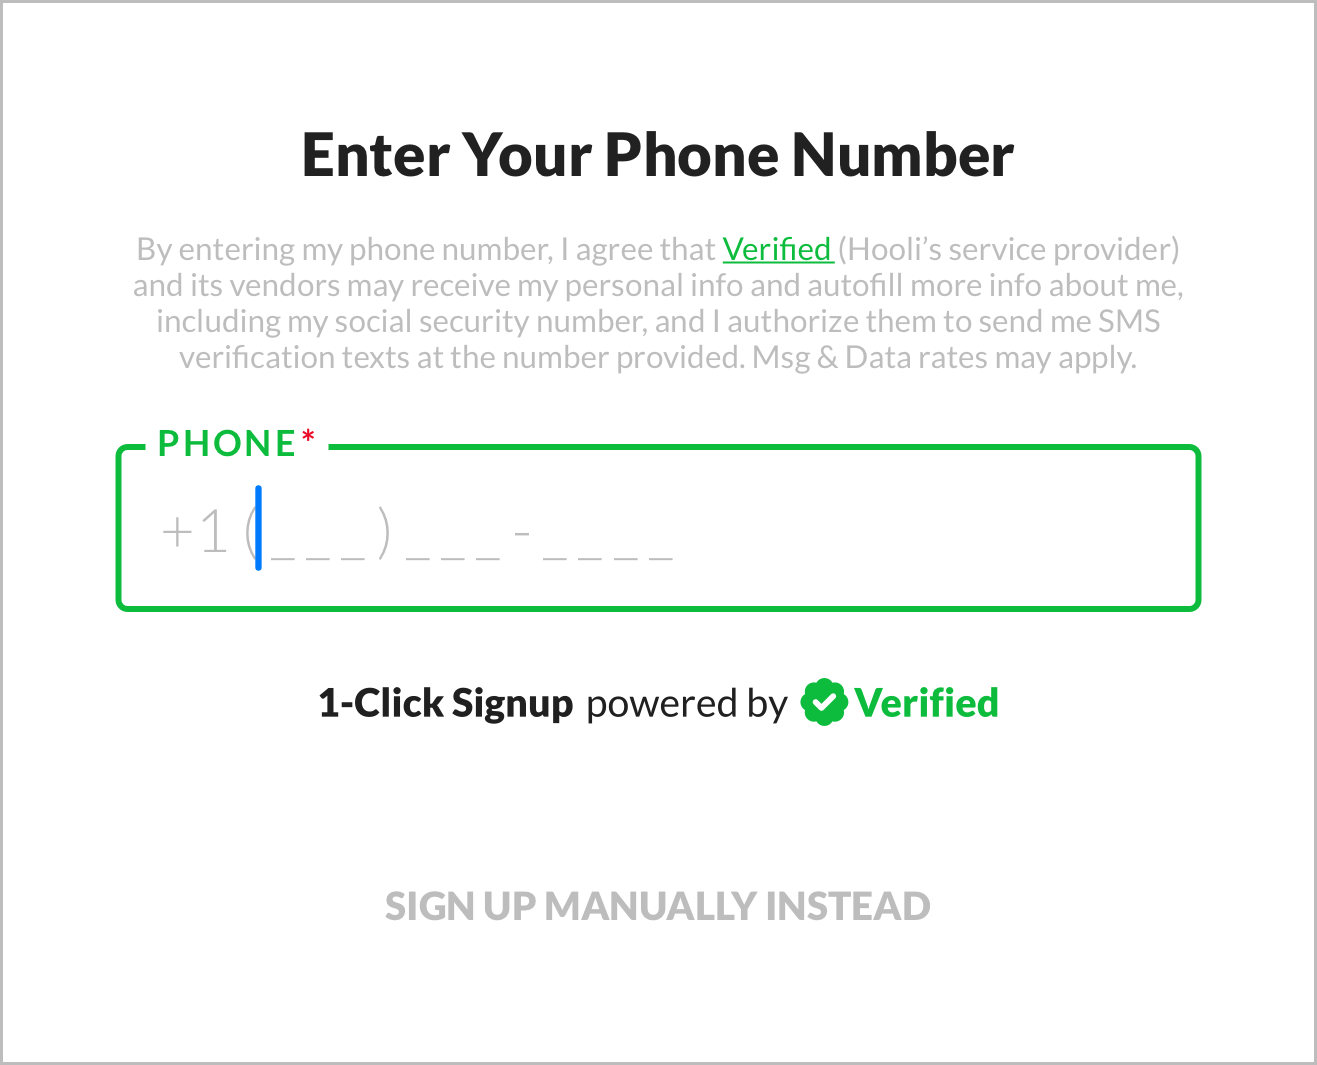
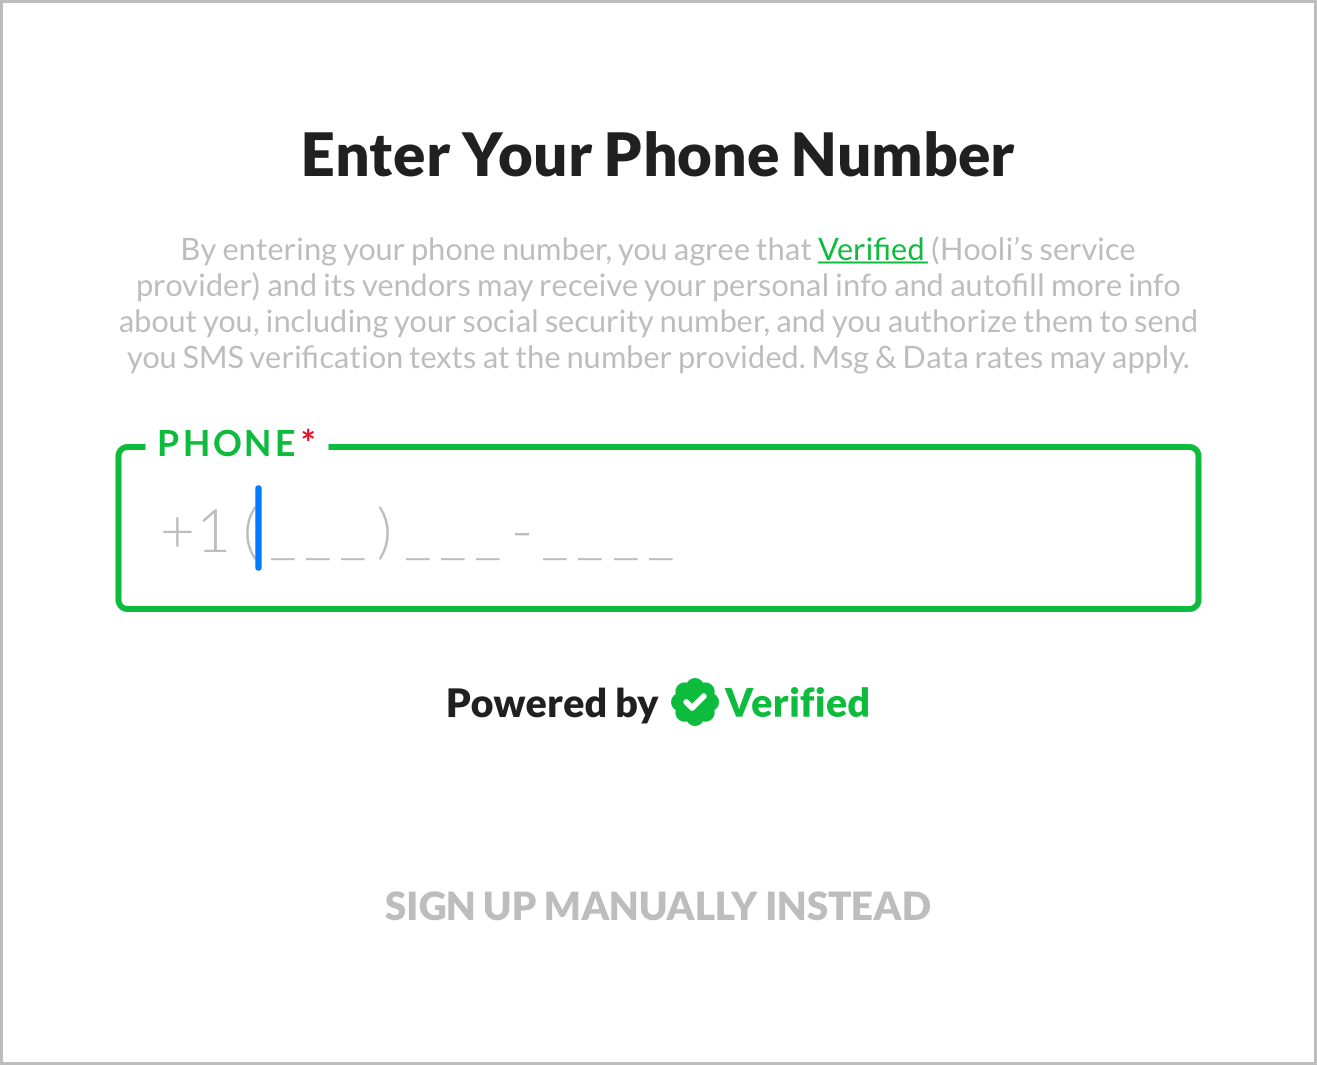
Various updates: Updated inputs for POST /client/1-click. Updated to indicate that verificationUuid can be passed to SDK. Updated UX screens and flow charts. Updated phone verification recency requirement from 30 min to 24 hours. Changed consent language from 'I' to 'you'.

Changed region(s): [[0.0934, 0.2169, 0.9028, 0.3718], [0.2491, 0.6197, 0.7783, 0.6817]]

diff --git a/src/css/custom.css b/src/css/custom.css
@@ -445,9 +445,13 @@ td:first-child {
 .grid-sticky-element {
   position: sticky;
   top: 3.5rem;
-  background: white;
+  background-color: #ffffff;
+  color: var(--ifm-heading-color);
   padding: 1rem 0 0 0;
   z-index: 10;
+}
+html[data-theme='dark'] .grid-sticky-element {
+  background-color: var(--ifm-background-color);
 }
 
 /* For grid layouts */
